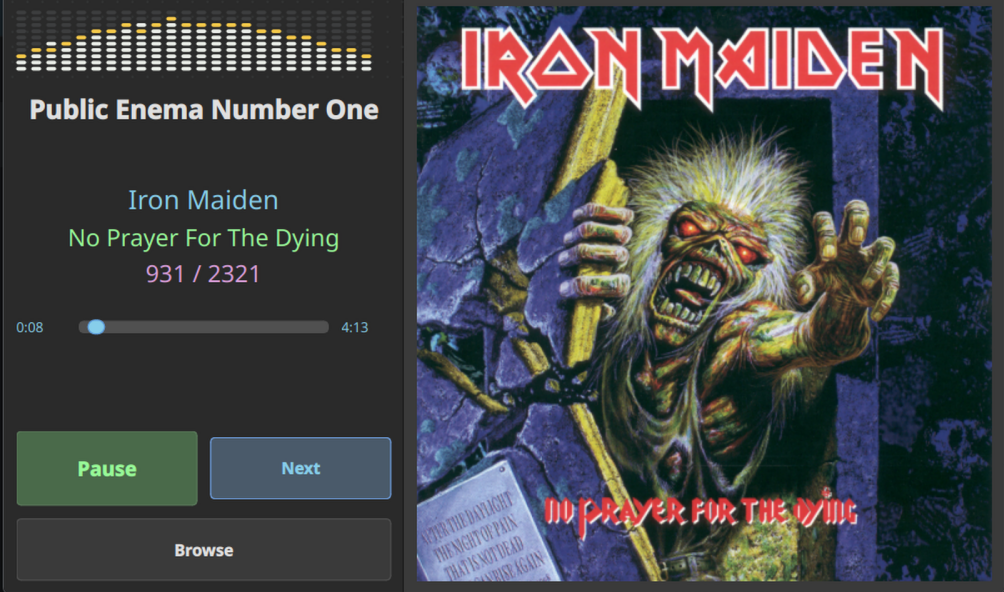
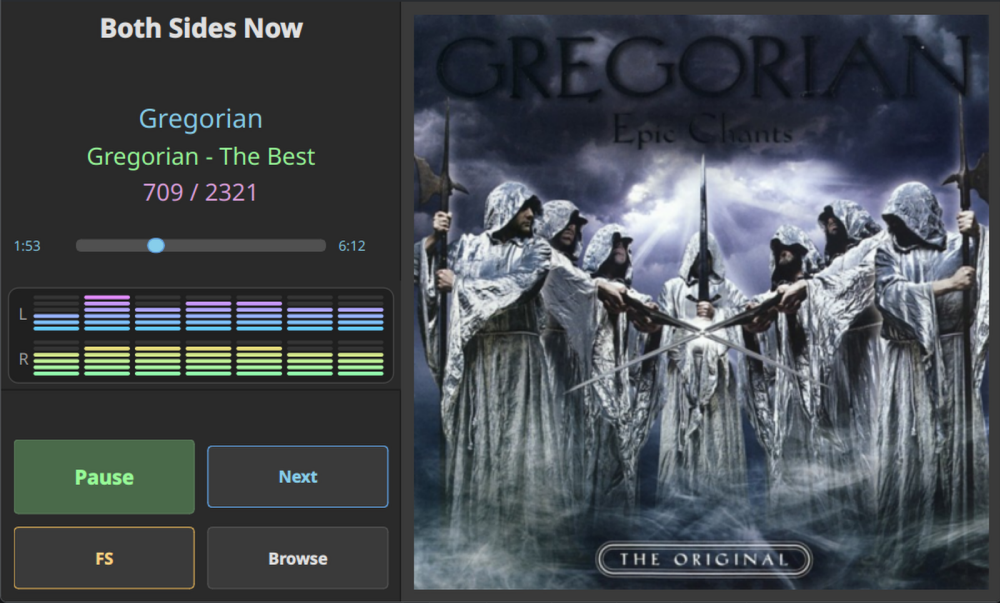
spectrum analyzer

diff --git a/src/gstaudioengine.cpp b/src/gstaudioengine.cpp
@@ -13,13 +13,21 @@
 namespace {
 constexpr auto kDiagnosticSampleInterval = std::chrono::milliseconds(1000);
 constexpr auto kPlaybackStallThreshold = std::chrono::milliseconds(2000);
-constexpr auto kSpectrumRefreshInterval = std::chrono::milliseconds(50);
+constexpr auto kSpectrumAnalysisWindow = std::chrono::milliseconds(50);
+constexpr auto kSpectrumRefreshInterval = std::chrono::milliseconds(25);
 constexpr auto kPlaybackQueueLeadTime = std::chrono::milliseconds(500);
 constexpr int kAnalyzerSampleRate = 44100;
 constexpr std::array<double, SpectrumLevels::kBandCount> kSpectrumBandCenters = {31.0, 62.0, 125.0, 200.0, 250.0, 400.0, 500.0};
 constexpr double kSpectrumDbFloor = 66.0;
 constexpr double kSpectrumDbRange = 38.0;
 constexpr double kSpectrumResponseGamma = 0.72;
+constexpr float kSpectrumAverageBlend = 0.18F;
+constexpr float kSpectrumTargetFill = 0.92F;
+constexpr float kSpectrumAdaptiveFloor = 0.24F;
+constexpr float kSpectrumAdaptiveAttack = 0.22F;
+constexpr float kSpectrumAdaptiveRelease = 0.08F;
+constexpr float kSpectrumMinAdaptiveGain = 0.85F;
+constexpr float kSpectrumMaxAdaptiveGain = 2.75F;
 
 void logMessage(const std::string& level, const std::string& message) {
     std::cerr << "[AudioEngine " << level << "] " << message << std::endl;
@@ -79,15 +87,20 @@ void setUIntPropertyIfPresent(GstElement* element, const char* propertyName, gui
 
 struct GstAudioEngine::AnalyzerState {
     double sampleRate = kAnalyzerSampleRate;
-    std::size_t framesPerSnapshot =
+    std::size_t windowFrames =
+        static_cast<std::size_t>(kAnalyzerSampleRate * kSpectrumAnalysisWindow.count() / 1000);
+    std::size_t hopFrames =
         static_cast<std::size_t>(kAnalyzerSampleRate * kSpectrumRefreshInterval.count() / 1000);
     std::array<std::vector<float>, SpectrumLevels::kChannelCount> channelBuffers{};
     std::array<std::array<float, SpectrumLevels::kBandCount>, SpectrumLevels::kChannelCount> smoothedLevels{};
+    float adaptiveReference = kSpectrumTargetFill;
 
     void reset()
     {
         sampleRate = kAnalyzerSampleRate;
-        framesPerSnapshot = static_cast<std::size_t>(kAnalyzerSampleRate * kSpectrumRefreshInterval.count() / 1000);
+        windowFrames = static_cast<std::size_t>(kAnalyzerSampleRate * kSpectrumAnalysisWindow.count() / 1000);
+        hopFrames = static_cast<std::size_t>(kAnalyzerSampleRate * kSpectrumRefreshInterval.count() / 1000);
+        adaptiveReference = kSpectrumTargetFill;
         for (auto& buffer : channelBuffers) {
             buffer.clear();
         }
@@ -104,9 +117,13 @@ struct GstAudioEngine::AnalyzerState {
         }
 
         sampleRate = normalizedRate;
-        framesPerSnapshot = std::max<std::size_t>(
+        windowFrames = std::max<std::size_t>(
             512,
+            static_cast<std::size_t>(sampleRate * kSpectrumAnalysisWindow.count() / 1000.0));
+        hopFrames = std::max<std::size_t>(
+            256,
             static_cast<std::size_t>(sampleRate * kSpectrumRefreshInterval.count() / 1000.0));
+        adaptiveReference = kSpectrumTargetFill;
         for (auto& buffer : channelBuffers) {
             buffer.clear();
         }
@@ -127,10 +144,10 @@ struct GstAudioEngine::AnalyzerState {
         }
 
         std::optional<SpectrumLevels> latest;
-        while (channelBuffers[0].size() >= framesPerSnapshot && channelBuffers[1].size() >= framesPerSnapshot) {
+        while (channelBuffers[0].size() >= windowFrames && channelBuffers[1].size() >= windowFrames) {
             latest = analyzeWindow();
             for (auto& buffer : channelBuffers) {
-                buffer.erase(buffer.begin(), buffer.begin() + static_cast<std::ptrdiff_t>(framesPerSnapshot));
+                buffer.erase(buffer.begin(), buffer.begin() + static_cast<std::ptrdiff_t>(hopFrames));
             }
         }
 
@@ -167,29 +184,42 @@ private:
     {
         SpectrumLevels levels;
         levels.active = true;
+        float strongestBand = 0.0F;
 
         for (int channel = 0; channel < SpectrumLevels::kChannelCount; ++channel) {
             const float* data = channelBuffers[channel].data();
             for (int band = 0; band < SpectrumLevels::kBandCount; ++band) {
                 const double center = kSpectrumBandCenters[band];
-                const double lower = goertzelMagnitude(data, framesPerSnapshot, center * 0.85, sampleRate);
-                const double middle = goertzelMagnitude(data, framesPerSnapshot, center, sampleRate);
-                const double upper = goertzelMagnitude(data, framesPerSnapshot, center * 1.15, sampleRate);
+                const double lower = goertzelMagnitude(data, windowFrames, center * 0.85, sampleRate);
+                const double middle = goertzelMagnitude(data, windowFrames, center, sampleRate);
+                const double upper = goertzelMagnitude(data, windowFrames, center * 1.15, sampleRate);
                 const double magnitude = (lower + middle + upper) / 3.0;
                 const double db = 20.0 * std::log10(magnitude + 1.0e-7);
                 const double normalized = std::clamp((db + kSpectrumDbFloor) / kSpectrumDbRange, 0.0, 1.0);
                 const float target = static_cast<float>(std::pow(normalized, kSpectrumResponseGamma));
                 float& smoothed = smoothedLevels[channel][band];
-                smoothed = target >= smoothed ? (smoothed * 0.35F + target * 0.65F)
-                                              : (smoothed * 0.82F + target * 0.18F);
+                smoothed += (target - smoothed) * kSpectrumAverageBlend;
+                strongestBand = std::max(strongestBand, smoothed);
+            }
+        }
 
+        const float targetReference = std::max(strongestBand, kSpectrumAdaptiveFloor);
+        const float referenceBlend = targetReference >= adaptiveReference ? kSpectrumAdaptiveAttack : kSpectrumAdaptiveRelease;
+        adaptiveReference += (targetReference - adaptiveReference) * referenceBlend;
+        const float adaptiveGain = std::clamp(
+            kSpectrumTargetFill / std::max(adaptiveReference, 0.001F),
+            kSpectrumMinAdaptiveGain,
+            kSpectrumMaxAdaptiveGain);
+
+        for (int channel = 0; channel < SpectrumLevels::kChannelCount; ++channel) {
+            for (int band = 0; band < SpectrumLevels::kBandCount; ++band) {
+                const float displayLevel = std::clamp(smoothedLevels[channel][band] * adaptiveGain, 0.0F, 1.0F);
                 int blocks =
-                    static_cast<int>(std::lround(smoothed * static_cast<float>(SpectrumLevels::kBlockCount)));
-                if (smoothed > 0.08F && blocks == 0) {
+                    static_cast<int>(std::lround(displayLevel * static_cast<float>(SpectrumLevels::kBlockCount)));
+                if (displayLevel > 0.08F && blocks == 0) {
                     blocks = 1;
                 }
-                levels.channels[channel][band] =
-                    std::clamp(blocks, 0, SpectrumLevels::kBlockCount);
+                levels.channels[channel][band] = std::clamp(blocks, 0, SpectrumLevels::kBlockCount);
             }
         }
 

diff --git a/README.md b/README.md
@@ -1,19 +1,19 @@
 # Boombox
 
-![Boombox app screenshot](resources/appshot.png)
+![Boombox app screenshot showing the current touchscreen playback UI](resources/appshot.png)
 
-Boombox is a Qt6 + C++ audio player designed for Raspberry Pi (targeting Pi 5 touchscreen setups).
+Boombox is a Qt6 + C++ audio player designed for Raspberry Pi, especially 800x480 touchscreen setups.
 
-## What the app does
+## Features
 
-- Plays audio files from a selected folder (recursive scan)
+- Plays audio files from a selected folder with recursive folder scanning
 - Uses random track selection for playback progression
-- Provides a simple touchscreen-first UI:
-  - **Play/Pause**
-  - **Next**
-  - **Browse**
-  - Seek bar
-- Persists last selected folder in `~/.boombox/config.json`
+- Displays track title, artist, album, and queue position
+- Extracts and shows embedded album art when available
+- Includes a live seek bar with elapsed and total time
+- Shows a stereo spectrum visualizer during playback
+- Provides large touchscreen-friendly controls for **Play/Pause**, **Next**, **Browse**, and in-app **Fullscreen**
+- Remembers the last selected folder in `~/.boombox/config.json` and auto-loads it on startup
 - Writes logs to `~/boombox.log`
 
 ## Supported audio file extensions
